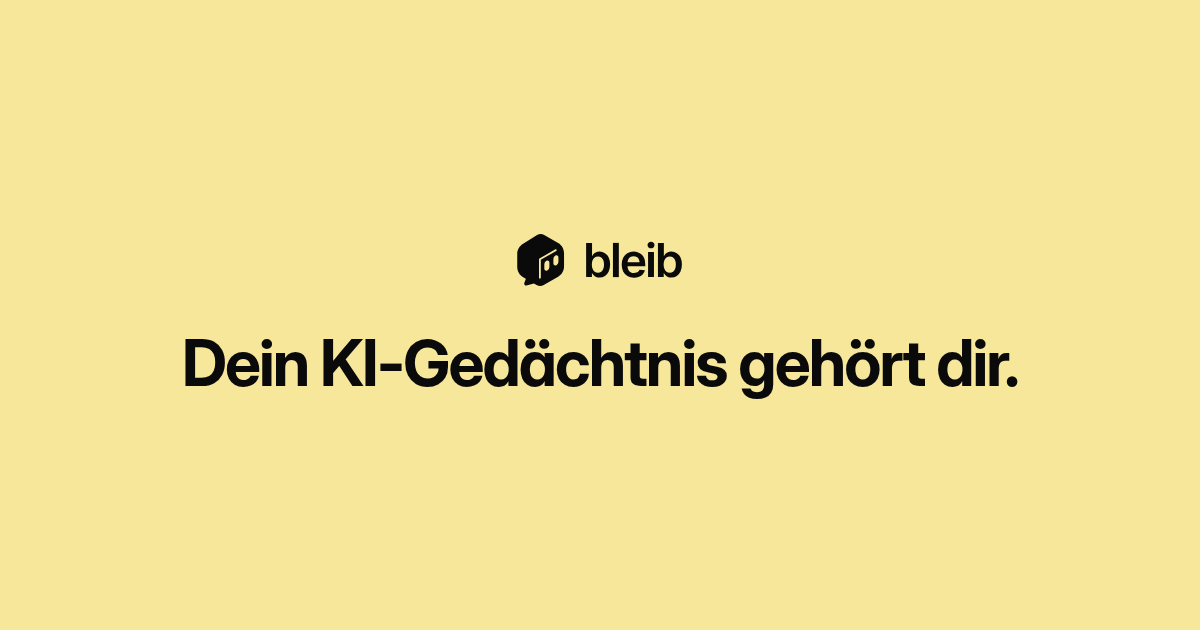
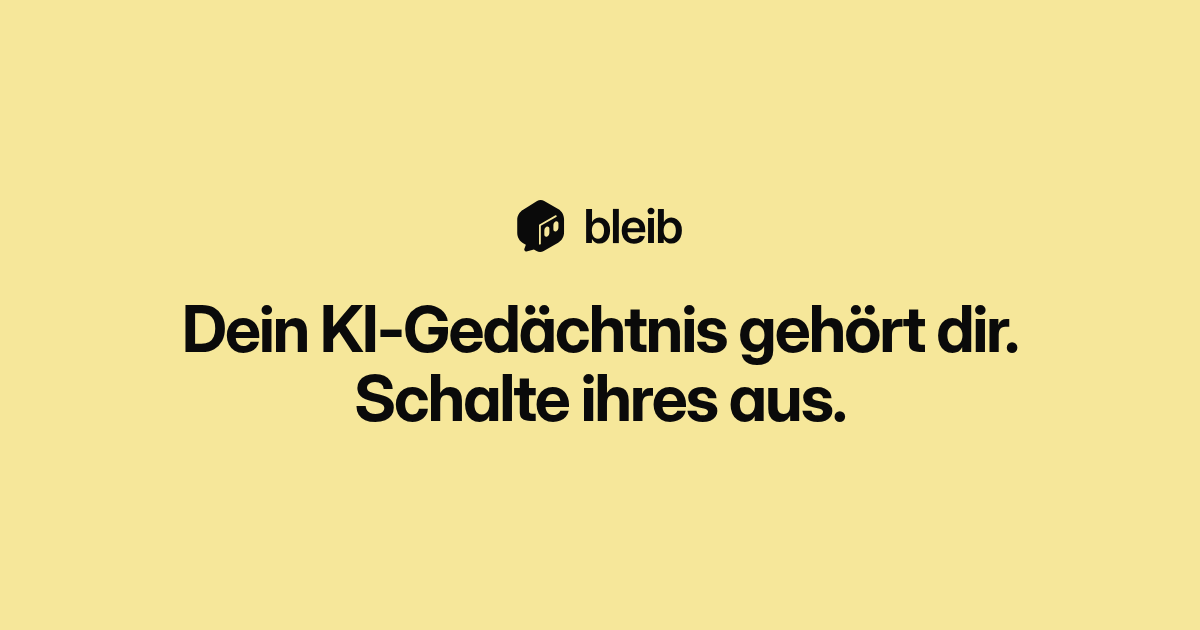
feat(site): the hero says "Own your AI memory. Turn theirs off."
The founder picked option 1. The subline stays ("Kept on your device. Shared on
your terms.").
- Hero headline in EN and DE ("Dein KI-Gedächtnis gehört dir. Schalte ihres aus."),
  each sentence on its own line.
- The same line leads the meta description and llms.txt, and the share title.
- Home share cards regenerated, one sentence per line.

Changed region(s): [[0.1542, 0.4825, 0.8633, 0.6937], [0.4317, 0.3016, 0.5858, 0.4524]]

diff --git a/site/src/i18n/strings.ts b/site/src/i18n/strings.ts
@@ -28,11 +28,11 @@ const en = {
     title: 'bleib: your AI memory wallet',
     /** What a shared link shows (the homepage): the hero's promise, not the category. */
     share: {
-      title: 'bleib: Own your AI memory.',
+      title: 'bleib: Own your AI memory. Turn theirs off.',
       description: 'Kept on your device. Shared on your terms. A free browser extension, in development for Chrome, Edge and Firefox.',
     },
     description:
-      'bleib is your AI memory wallet: a browser extension, in development for Chrome, Edge and Firefox, that keeps your memory encrypted on your device. You decide what each AI can get, and every share leaves a receipt. Free and open source.',
+      'Own your AI memory. Turn theirs off. bleib is your AI memory wallet: a browser extension, in development for Chrome, Edge and Firefox, that keeps your memory encrypted on your device. Bring in what ChatGPT, Claude and Gemini know about you, then switch their memory off. You decide what each AI gets, and every share leaves a receipt. Free and open source.',
   },
   skip: 'Skip to content',
   nav: {
@@ -53,7 +53,7 @@ const en = {
   hero: {
     eyebrow: 'Browser extension · In development',
     status: 'In development',
-    h1: 'Own your AI memory.',
+    h1: 'Own your AI memory. Turn theirs off.',
     sub: ['Kept on your device.', 'Shared on your terms.'],
     primary: 'Notify me',
     secondary: 'GitHub',
@@ -209,11 +209,11 @@ const de: Strings = {
   meta: {
     title: 'bleib: dein Wallet für dein KI-Gedächtnis',
     share: {
-      title: 'bleib: Dein KI-Gedächtnis gehört dir.',
+      title: 'bleib: Dein KI-Gedächtnis gehört dir. Schalte ihres aus.',
       description: 'Auf deinem Gerät. Geteilt, wie du willst. Eine kostenlose Browser-Erweiterung, in Entwicklung für Chrome, Edge und Firefox.',
     },
     description:
-      'bleib ist dein Wallet für dein KI-Gedächtnis: eine Browser-Erweiterung, in Entwicklung für Chrome, Edge und Firefox, die dein Gedächtnis verschlüsselt auf deinem Gerät bewahrt. Du entscheidest, was jede KI bekommt, und jede Weitergabe hinterlässt einen Beleg. Kostenlos und Open Source.',
+      'Dein KI-Gedächtnis gehört dir. Schalte ihres aus. bleib ist dein Wallet für dein KI-Gedächtnis: eine Browser-Erweiterung, in Entwicklung für Chrome, Edge und Firefox, die dein Gedächtnis verschlüsselt auf deinem Gerät bewahrt. Hol dir, was ChatGPT, Claude und Gemini über dich wissen, dann schalte ihr Gedächtnis aus. Du entscheidest, was jede KI bekommt, und jede Weitergabe hinterlässt einen Beleg. Kostenlos und Open Source.',
   },
   skip: 'Zum Inhalt springen',
   nav: {
@@ -234,7 +234,7 @@ const de: Strings = {
   hero: {
     eyebrow: 'Browser-Erweiterung · In Entwicklung',
     status: 'In Entwicklung',
-    h1: 'Dein KI-Gedächtnis gehört dir.',
+    h1: 'Dein KI-Gedächtnis gehört dir. Schalte ihres aus.',
     sub: ['Auf deinem Gerät.', 'Geteilt, wie du willst.'],
     primary: 'Vormerken',
     secondary: 'GitHub',
